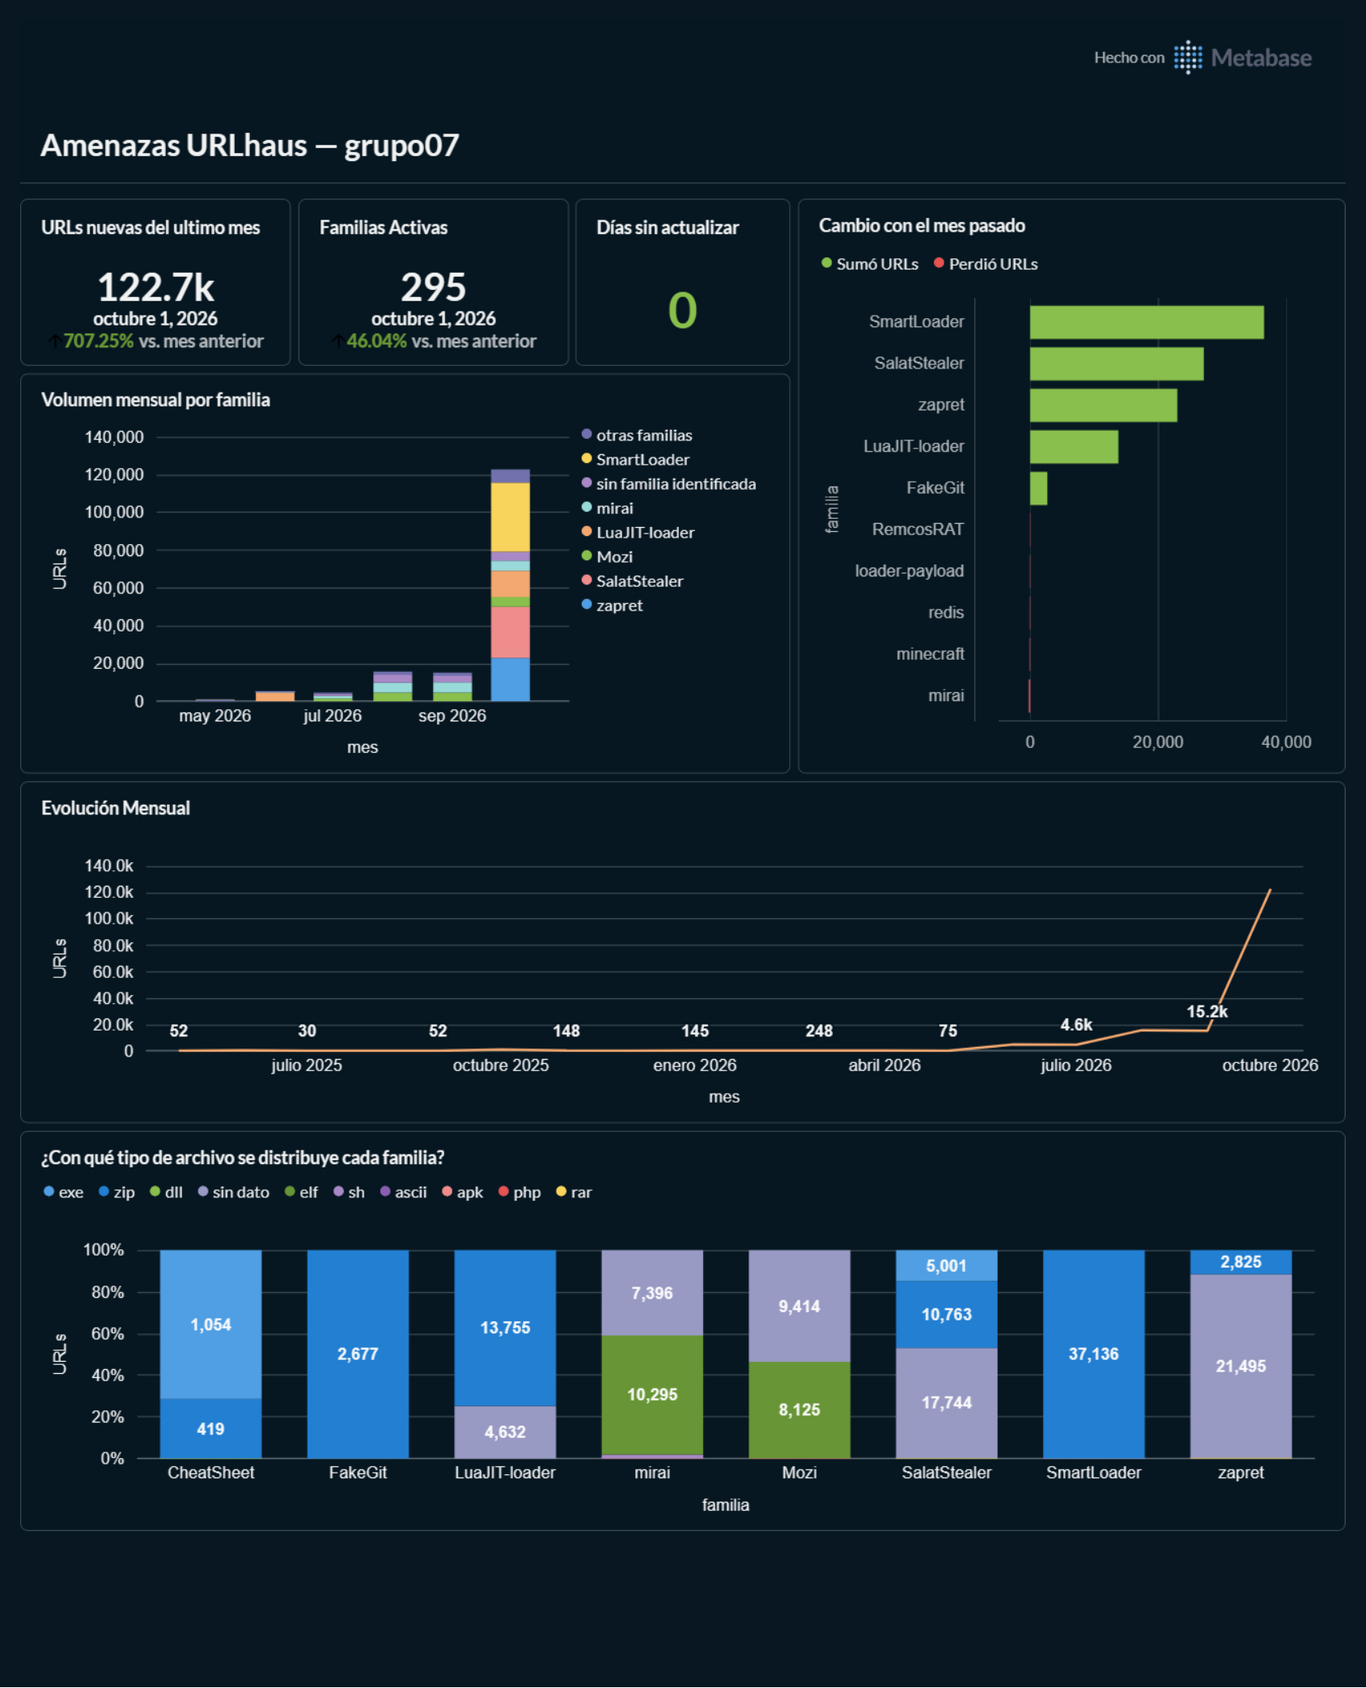
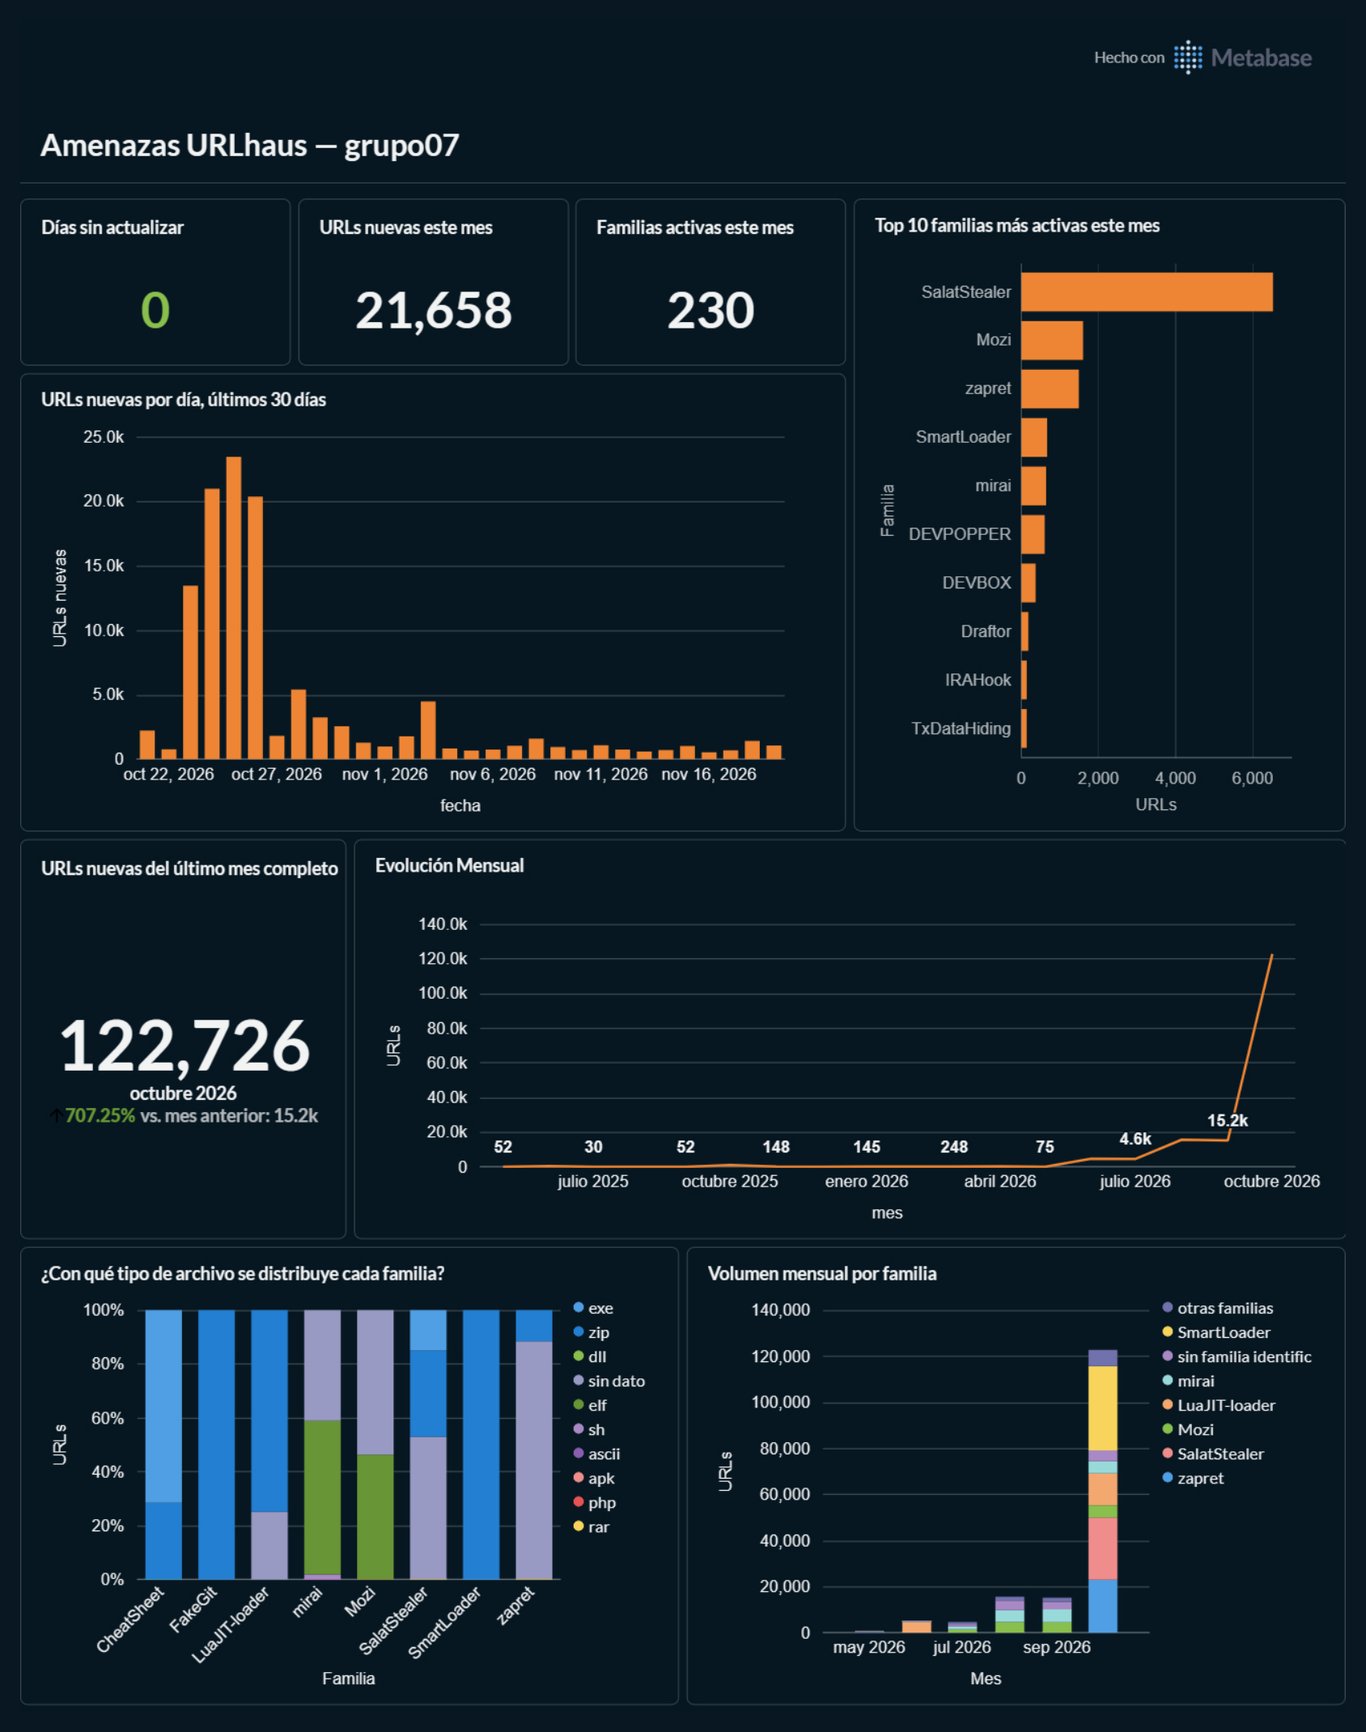
Tablero final: orden en tres partes (este mes, el mes pasado, quiénes y cómo), sin la tarjeta de sumó/perdió (#46)
TABLERO.md reescrito en el orden de lectura, con las consultas de cada tarjeta; la del último mes
completo se arma con el editor visual para que muestre el mes. Captura del 19/11.

diff --git a/docs/TABLERO.md b/docs/TABLERO.md
@@ -4,25 +4,37 @@ En **https://metabase.nexoacademia.org**, base `warehouse`, esquema `grupo07`. E
 
 ![Tablero](tablero.png)
 
-*Captura del 19/11/2026, con el indicador de días sin actualizar.*
+*Captura del 19/11/2026.*
+
+## Cómo está ordenado
+
+El tablero se lee de arriba hacia abajo como una historia en tres partes, y cada parte responde la pregunta que deja la anterior:
+
+1. **Este mes** (filas 1 y 2): si el tablero está al día, cuántas URLs y familias van en el mes en curso, cuáles circulan más y a qué ritmo llegan por día. Es lo que cambia apenas entra un dato nuevo.
+2. **El mes pasado** (fila 3): cómo cerró el último mes completo contra el anterior, en la serie de los últimos meses.
+3. **Quiénes y cómo** (fila 4): qué familias explican el volumen de cada mes y en qué formato se distribuyen, que es lo que define qué bloquear.
+
+Los títulos dicen el período de cada tarjeta: "este mes" es el mes en curso, incompleto; "último mes completo" es el mes cerrado. Las tarjetas del mes en curso no se comparan con meses cerrados, porque un mes a medias siempre parecería bajar.
 
 ## Cómo leer los números de octubre de 2026
 
-El indicador de URLs nuevas marca +707 % contra septiembre y el gráfico de evolución sube de golpe. **Es un pico real de reportes:** octubre tuvo casi 4.000 URLs por día contra unas 500 en agosto y septiembre, y noviembre vuelve a unas 1.100. Coincide con un solo reportero, `wristhulk`, que desde el 29/09/2026 cargó 96.956 URLs (el 51 % del dataset). En el mismo período aparecen en masa las familias que muestra el gráfico 3 (SmartLoader, SalatStealer, zapret, LuaJIT-loader). Con estos datos no se puede separar cuánto es más malware y cuánto es más actividad de reporte. Por eso el gráfico de familias que sumaron y perdieron URLs muestra casi solo subas.
+El indicador del último mes completo marca +707 % contra septiembre y la evolución mensual sube de golpe. **Es sobre todo un pico de reportes:** octubre tuvo casi 4.000 URLs por día contra unas 500 en agosto y septiembre. El gráfico de URLs por día muestra que el pico se concentró en pocos días: entre el 24 y el 27 de octubre entraron entre 13.000 y 23.000 URLs diarias, y en noviembre el ritmo vuelve a unas 1.000. Coincide con un solo reportero, `wristhulk`, que desde el 29/09/2026 cargó 96.956 URLs (el 51 % del dataset). En el mismo período aparecen en masa las familias del volumen mensual (SmartLoader, SalatStealer, zapret, LuaJIT-loader). Con estos datos no se puede separar cuánto es más malware y cuánto es más actividad de reporte.
 
-Lo que sí es cobertura: antes de agosto de 2026 los meses tienen pocas URLs porque el export de URLhaus ya no las conserva (ver `INCIDENTE_2026-11-18_backfill.md`). El gráfico de evolución sirve para comparar los meses recientes, no para medir tendencias de largo plazo.
+Lo que sí es cobertura: antes de agosto de 2026 los meses tienen pocas URLs porque el export de URLhaus ya no las conserva (ver `INCIDENTE_2026-11-18_backfill.md`). La evolución mensual sirve para comparar los meses recientes, no para medir tendencias de largo plazo.
 
-## Gráficos
+## Tarjetas
 
-Todos se arman con *Nuevo → Consulta SQL*, eligiendo la base **warehouse** arriba a la izquierda (no "Sample Database"). El título de cada gráfico es la pregunta que responde.
+Se arman con *Nuevo → Consulta SQL*, eligiendo la base **warehouse** (no "Sample Database"), salvo la 6, que se arma con el editor visual. Los números siguen el orden de lectura del tablero.
 
-**0 · ¿Está al día el tablero?** — *Número* (Días sin actualizar). Cuenta los días desde la última publicación exitosa del DAG. Lo normal es 0, porque el DAG publica todas las noches. Si muestra 1 o más, el tablero tiene datos viejos: el control de volumen frenó la publicación o el DAG no corrió. El motivo está en el log de `publicar_gold` o en `grupo07.estado_publicacion` (consulta de abajo). Conviene ponerle formato condicional: verde en 0, rojo desde 1.
+### Fila 1 · Este mes
+
+**1 · Días sin actualizar** — *Número*. Días desde la última publicación exitosa del DAG. Lo normal es 0, porque el DAG publica todas las noches. Si muestra 1 o más, el tablero tiene datos viejos: el control de volumen frenó la publicación o el DAG no corrió. Formato condicional: verde en 0, rojo desde 1.
 ```sql
 select current_date - max(publicado_en at time zone 'America/Argentina/Cordoba')::date as dias_sin_actualizar
 from grupo07.estado_publicacion
 where resultado = 'publicada'
 ```
-Para ver qué pasó (*Nuevo → Consulta SQL*, no va en el tablero):
+Para ver qué pasó (consulta aparte, no va en el tablero):
 ```sql
 select publicado_en, resultado, detalle, urls_publicadas
 from grupo07.estado_publicacion
@@ -30,7 +42,46 @@ order by publicado_en desc
 limit 10
 ```
 
-**1 · ¿Cuántas URLs maliciosas nuevas se registraron el último mes completo, y cómo viene contra el anterior?** — visualización *Tendencia* (número grande con la variación)
+**2 · URLs nuevas este mes** — *Número*. Sube con cada corrida del DAG: es lo primero que cambia cuando entra un dato nuevo.
+```sql
+select sum(cantidad_amenazas) as urls_en_lo_que_va_del_mes
+from grupo07.fct_amenazas_diarias
+where fecha >= (select date_trunc('month', max(fecha))::date from grupo07.fct_amenazas_diarias)
+```
+
+**3 · Familias activas este mes** — *Número*. Familias distintas con al menos una URL en el mes en curso, sin contar `sin_familia`. Mide la diversidad de la amenaza: el volumen puede subir por una sola familia o por muchas a la vez.
+```sql
+select count(distinct familia_malware) as familias_activas
+from grupo07.fct_familias_mensual
+where fecha = (select max(fecha) from grupo07.fct_familias_mensual)
+  and familia_malware <> 'sin_familia'
+  and cantidad_amenazas > 0
+```
+
+**4 · Top 10 familias más activas este mes** — *Fila* (barras horizontales). Qué está circulando ahora, antes de que el mes cierre.
+```sql
+select familia_malware, sum(cantidad_amenazas) as urls
+from grupo07.fct_familias_mensual
+where fecha = (select max(fecha) from grupo07.fct_familias_mensual)
+  and familia_malware <> 'sin_familia'
+group by 1
+order by 2 desc
+limit 10
+```
+
+### Fila 2 · El ritmo
+
+**5 · URLs nuevas por día, últimos 30 días** — *Barras* (eje X: día; eje Y: URLs nuevas). Muestra el ritmo diario de reportes y los días con picos, que en los gráficos mensuales no se ven. Une las dos partes del tablero: los 30 días cruzan del mes pasado al actual.
+```sql
+select fecha, cantidad_amenazas as urls_nuevas
+from grupo07.fct_amenazas_diarias
+where fecha > (select max(fecha) from grupo07.fct_amenazas_diarias) - 30
+order by fecha
+```
+
+### Fila 3 · El mes pasado
+
+**6 · URLs nuevas del último mes completo** — *Tendencia*, con la comparación *Mes anterior*. Se arma con el editor visual (*Nuevo → Pregunta*), no con SQL, para que Metabase sepa que agrupa por mes y muestre "octubre 2026" en lugar de "octubre 1, 2026": tabla **Fct Features Familias**, filtro *Mes Completo* es verdadero, *Suma de Cantidad Amenazas* agrupada por *Fecha: Mes*. Equivale a:
 ```sql
 select fecha as mes, sum(cantidad_amenazas) as urls_nuevas
 from grupo07.fct_features_familias
@@ -38,17 +89,7 @@ where mes_completo
 group by 1 order by 1
 ```
 
-**1b · ¿Cuántas familias distintas estuvieron activas el último mes completo?** — *Tendencia*, al lado del 1. Mide la diversidad de la amenaza: el volumen puede subir por una sola campaña grande o por muchas familias a la vez.
-```sql
-select fecha as mes,
-       count(*) filter (where cantidad_amenazas > 0 and familia_malware <> 'sin_familia') as familias_activas
-from grupo07.fct_features_familias
-where mes_completo
-group by 1
-order by 1
-```
-
-**2 · ¿Cómo evolucionó la cantidad de URLs nuevas por mes en el último año y medio?** — *Línea*, solo meses completos. Ojo al leerla: antes de agosto de 2026 el histórico está incompleto, porque URLhaus ya no publica esas URLs (ver `docs/INCIDENTE_2026-11-18_backfill.md`); el salto de septiembre a octubre es un pico de reportes.
+**7 · Evolución mensual** — *Línea*, solo meses completos de los últimos 18 meses. Al lado del 6, muestra el salto que mide su porcentaje. Antes de agosto de 2026 el histórico está incompleto (ver arriba).
 ```sql
 select fecha as mes, sum(cantidad_amenazas) as urls_nuevas
 from grupo07.fct_features_familias
@@ -58,7 +99,26 @@ group by 1
 order by 1
 ```
 
-**3 · ¿Qué familias de malware explican el volumen de cada mes?** — *Barras apiladas* (eje X: mes; series: familia). Muestra las campañas: una familia que aparece fuerte un mes y desaparece.
+### Fila 4 · Quiénes y cómo
+
+**8 · ¿Con qué tipo de archivo se distribuye cada familia?** — *Barras apiladas al 100 %*, una barra por familia (las 8 más activas de los últimos 6 meses). Es la decisión del tablero: qué formato bloquear o inspeccionar para cada familia.
+```sql
+with desde as (select max(fecha) - interval '6 months' as f from grupo07.fct_familias_mensual),
+top as (
+    select fm.familia_malware from grupo07.fct_familias_mensual fm, desde
+    where fm.familia_malware <> 'sin_familia' and fm.fecha > desde.f
+    group by 1 order by sum(fm.cantidad_amenazas) desc limit 8
+)
+select f.familia_malware as familia,
+       case when f.tipo_archivo = 'desconocido' then 'sin dato' else f.tipo_archivo end as tipo_de_archivo,
+       sum(f.cantidad_amenazas) as urls
+from grupo07.fct_familias_mensual f
+join top using (familia_malware), desde
+where f.fecha > desde.f
+group by 1, 2 order by 1, 3 desc
+```
+
+**9 · Volumen mensual por familia** — *Barras apiladas* (eje X: mes; series: familia), los últimos 6 meses completos. Muestra qué familias explican cada mes y cuáles llegan en oleadas: aparecen fuertes un mes y desaparecen.
 ```sql
 with ult as (select max(fecha) as f from grupo07.fct_features_familias where mes_completo),
 ventana as (
@@ -80,73 +140,17 @@ having sum(v.cantidad_amenazas) > 0
 order by 1, 3 desc
 ```
 
-**4 · ¿Qué familias sumaron y perdieron más URLs respecto del mes anterior?** — *Barras horizontales* apiladas, con "Sumó" en verde y "Perdió" en rojo. Se mide en cantidad de URLs y no en porcentaje: muchas familias llegan por campañas y el mes anterior tienen 0, y sobre 0 no hay porcentaje posible (LuaJIT-loader pasó de 0 a 13.762).
-```sql
-with ult as (select max(fecha) as f from grupo07.fct_features_familias where mes_completo),
-base as (
-    select ff.familia_malware as familia,
-           ff.cantidad_amenazas - ff.cantidad_mes_anterior as diferencia
-    from grupo07.fct_features_familias ff, ult
-    where ff.fecha = ult.f and ff.familia_malware <> 'sin_familia'
-),
-r as (
-    select *, row_number() over (order by diferencia desc) as n_sube,
-              row_number() over (order by diferencia asc) as n_baja
-    from base
-)
-select familia,
-       case when diferencia >= 0 then diferencia end as "Sumó URLs",
-       case when diferencia <  0 then diferencia end as "Perdió URLs"
-from r
-where (n_sube <= 5 and diferencia > 0) or (n_baja <= 5 and diferencia < 0)
-order by diferencia desc
-```
+## Armado
 
-**5 · ¿Con qué tipo de archivo se distribuye cada familia?** — *Barras apiladas al 100 %* (una barra por familia; las 8 más activas de los últimos 6 meses)
-```sql
-with desde as (select max(fecha) - interval '6 months' as f from grupo07.fct_familias_mensual),
-top as (
-    select fm.familia_malware from grupo07.fct_familias_mensual fm, desde
-    where fm.familia_malware <> 'sin_familia' and fm.fecha > desde.f
-    group by 1 order by sum(fm.cantidad_amenazas) desc limit 8
-)
-select f.familia_malware as familia,
-       case when f.tipo_archivo = 'desconocido' then 'sin dato' else f.tipo_archivo end as tipo_de_archivo,
-       sum(f.cantidad_amenazas) as urls
-from grupo07.fct_familias_mensual f
-join top using (familia_malware), desde
-where f.fecha > desde.f
-group by 1, 2 order by 1, 3 desc
-```
+| Fila | Tarjetas |
+| --- | --- |
+| 1 · Este mes | 1 Días sin actualizar · 2 URLs nuevas este mes · 3 Familias activas este mes · 4 Top 10 familias (a la derecha, ocupa las filas 1 y 2) |
+| 2 · El ritmo | 5 URLs nuevas por día, últimos 30 días |
+| 3 · El mes pasado | 6 URLs nuevas del último mes completo · 7 Evolución mensual |
+| 4 · Quiénes y cómo | 8 Tipo de archivo por familia · 9 Volumen mensual por familia |
 
-**6 · ¿Cuántas URLs nuevas entraron en lo que va del mes?** — *Número*. Sube con cada corrida del DAG: es lo primero que cambia cuando entra un dato nuevo. El mes en curso está incompleto, así que no se compara con meses cerrados.
-```sql
-select sum(cantidad_amenazas) as urls_en_lo_que_va_del_mes
-from grupo07.fct_amenazas_diarias
-where fecha >= (select date_trunc('month', max(fecha))::date from grupo07.fct_amenazas_diarias)
-```
+## Qué decisión se toma con esto
 
-**7 · ¿Cuántas URLs nuevas entraron cada día, en los últimos 30 días?** — *Barras* (eje X: `fecha`). Muestra el ritmo diario de reportes y los días con picos, que en los gráficos mensuales no se ven.
-```sql
-select fecha, cantidad_amenazas as urls_nuevas
-from grupo07.fct_amenazas_diarias
-where fecha > (select max(fecha) from grupo07.fct_amenazas_diarias) - 30
-order by fecha
-```
+Un equipo de seguridad ve si el tablero está al día (1), qué está entrando ahora y a qué ritmo (2 a 5), cómo cerró el mes pasado y si el volumen sube (6 y 7), qué familias lo explican y si son oleadas o actividad sostenida (9), y qué formatos bloquear o inspeccionar para cada una (8: `elf` apunta a dispositivos Linux e IoT; `exe` o `zip`, a usuarios de Windows).
 
-**8 · ¿Qué familias son las más activas en lo que va del mes?** — *Barras horizontales* (Fila). El top 10 del mes en curso, sin `sin_familia`: muestra qué está circulando ahora, antes de que el mes cierre.
-```sql
-select familia_malware, sum(cantidad_amenazas) as urls
-from grupo07.fct_familias_mensual
-where fecha = (select max(fecha) from grupo07.fct_familias_mensual)
-  and familia_malware <> 'sin_familia'
-group by 1
-order by 2 desc
-limit 10
-```
-
-**Armado:** arriba, el 0, el 1, el 1b y el 6 lado a lado; abajo, el 7 a lo ancho y el 8 al lado; al medio, el 2 a lo ancho; abajo, el 3 y el 4 lado a lado, y el 5 a lo ancho.
-
-**Qué decisión se toma con esto:** un equipo de seguridad ve si el volumen sube (1 y 2), qué familias lo explican y si son campañas puntuales o actividad sostenida (3), qué familias ganaron o perdieron más actividad este mes (4), y qué formatos bloquear o inspeccionar para cada una (5: `elf` apunta a dispositivos Linux/IoT; `exe` o `zip`, a usuarios de Windows).
-
-**Para leer bien los datos:** la fecha es cuándo URLhaus *registró* la URL, no cuándo ocurrió el ataque; el mes en curso está incompleto (por eso los gráficos 1 a 5 usan solo meses completos; el 6, el 7 y el 8 muestran lo que va del mes, sin compararlo con meses cerrados); antes de agosto de 2026 el histórico está incompleto porque el origen ya no publica esas URLs; la familia es aproximada, porque sale de los tags que carga cada reportero.
+**Para leer bien los datos:** la fecha es cuándo URLhaus *registró* la URL, no cuándo ocurrió el ataque; el mes en curso está incompleto (por eso las tarjetas 6 a 9 usan solo meses completos y las 2 a 4 muestran lo que va del mes sin compararlo); antes de agosto de 2026 el histórico está incompleto porque el origen ya no publica esas URLs; la familia es aproximada, porque sale de los tags que carga cada reportero.

diff --git a/docs/entregas/E4_serving_governance.md b/docs/entregas/E4_serving_governance.md
@@ -27,24 +27,23 @@ NB06 verifica lo publicado: que las cuatro tablas sumen lo mismo y tengan clave 
 
 ## 2. Tablero
 
-**"Amenazas URLhaus — grupo07"** en Metabase. Tiene 4 indicadores y 7 gráficos, y cada uno responde una pregunta. El detalle, las consultas y la captura están en [`docs/TABLERO.md`](../TABLERO.md).
+**"Amenazas URLhaus — grupo07"** en Metabase. Tiene 4 indicadores y 5 gráficos, y cada uno responde una pregunta. Se lee de arriba hacia abajo en tres partes: lo que pasa este mes, cómo cerró el mes pasado, y qué familias explican el volumen y en qué formato llegan. El detalle, las consultas y la captura están en [`docs/TABLERO.md`](../TABLERO.md).
 
-| Gráfico | Pregunta |
-| --- | --- |
-| Indicador | ¿Está al día el tablero? (días desde la última publicación) |
-| Indicador | ¿Cuántas URLs maliciosas nuevas se registraron el último mes completo, y cómo viene contra el anterior? |
-| Indicador | ¿Cuántas familias distintas estuvieron activas el último mes? |
-| Línea | ¿Cómo evolucionó la cantidad de URLs nuevas por mes? |
-| Barras apiladas | ¿Qué familias explican el volumen de cada mes? |
-| Barras horizontales | ¿Qué familias sumaron y perdieron más URLs respecto del mes anterior? |
-| Barras al 100 % | ¿Con qué tipo de archivo se distribuye cada familia? |
-| Indicador | ¿Cuántas URLs nuevas entraron en lo que va del mes? |
-| Barras | ¿Cuántas URLs nuevas entraron cada día, en los últimos 30 días? |
-| Barras horizontales | ¿Qué familias son las más activas en lo que va del mes? |
+| Parte | Tarjeta | Pregunta |
+| --- | --- | --- |
+| Este mes | Indicador | ¿Está al día el tablero? (días sin actualizar) |
+| Este mes | Indicador | ¿Cuántas URLs nuevas entraron este mes? |
+| Este mes | Indicador | ¿Cuántas familias distintas están activas este mes? |
+| Este mes | Barras horizontales | ¿Qué familias son las más activas este mes? |
+| Este mes | Barras | ¿Cuántas URLs nuevas entraron cada día, en los últimos 30 días? |
+| El mes pasado | Indicador | ¿Cuántas URLs nuevas hubo el último mes completo, y cómo viene contra el anterior? |
+| El mes pasado | Línea | ¿Cómo evolucionó la cantidad de URLs nuevas por mes? |
+| Quiénes y cómo | Barras al 100 % | ¿Con qué tipo de archivo se distribuye cada familia? |
+| Quiénes y cómo | Barras apiladas | ¿Qué familias explican el volumen de cada mes? |
 
 **Qué decisión se toma con esto:** un equipo de seguridad ve si el volumen sube, qué familias lo explican y si son campañas puntuales o actividad sostenida, y qué formatos bloquear o inspeccionar para cada familia. Por ejemplo, `elf` apunta a dispositivos Linux e IoT, y `exe` o `zip`, a usuarios de Windows.
 
-**Cómo leer octubre de 2026:** el indicador marca +707 % contra septiembre. Es un pico de reportes: un solo reportero, `wristhulk`, cargó el 51 % del dataset desde el 29/09, y en ese período aparecen en masa las familias que muestra el gráfico de volumen por familia (SmartLoader, SalatStealer, zapret, LuaJIT-loader). Con estos datos no se puede separar cuánto es más malware y cuánto es más actividad de reporte.
+**Cómo leer octubre de 2026:** el indicador marca +707 % contra septiembre, y el gráfico de URLs por día muestra que el pico se concentró entre el 24 y el 27 de octubre. Es un pico de reportes: un solo reportero, `wristhulk`, cargó el 51 % del dataset desde el 29/09, y en ese período aparecen en masa las familias que muestra el gráfico de volumen por familia (SmartLoader, SalatStealer, zapret, LuaJIT-loader). Con estos datos no se puede separar cuánto es más malware y cuánto es más actividad de reporte.
 
 **Carga rápido** porque cada gráfico lee tablas de unas pocas miles de filas, ya agregadas por dbt. Metabase no agrega casi nada.
 
